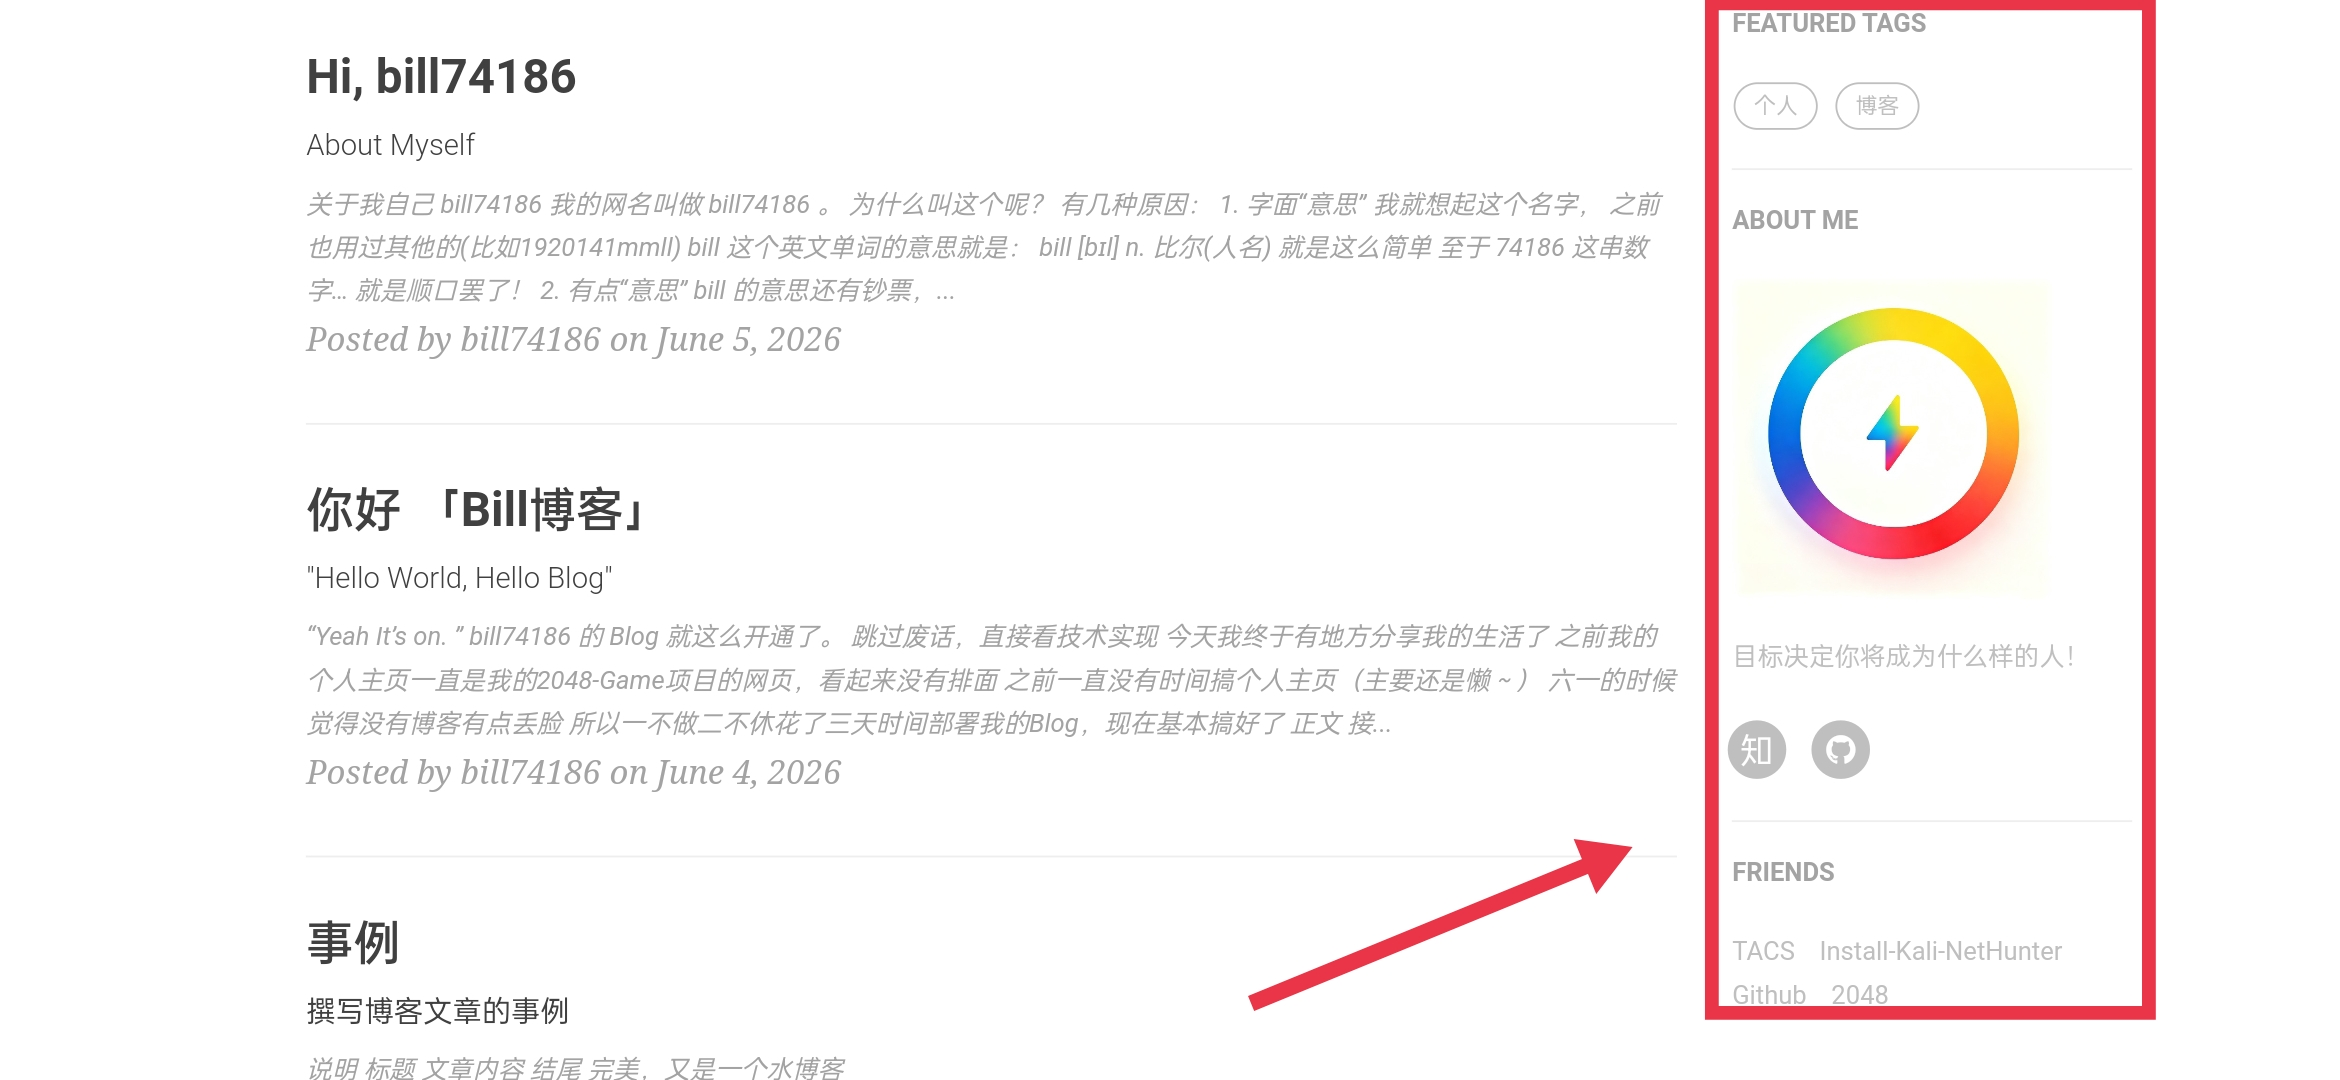
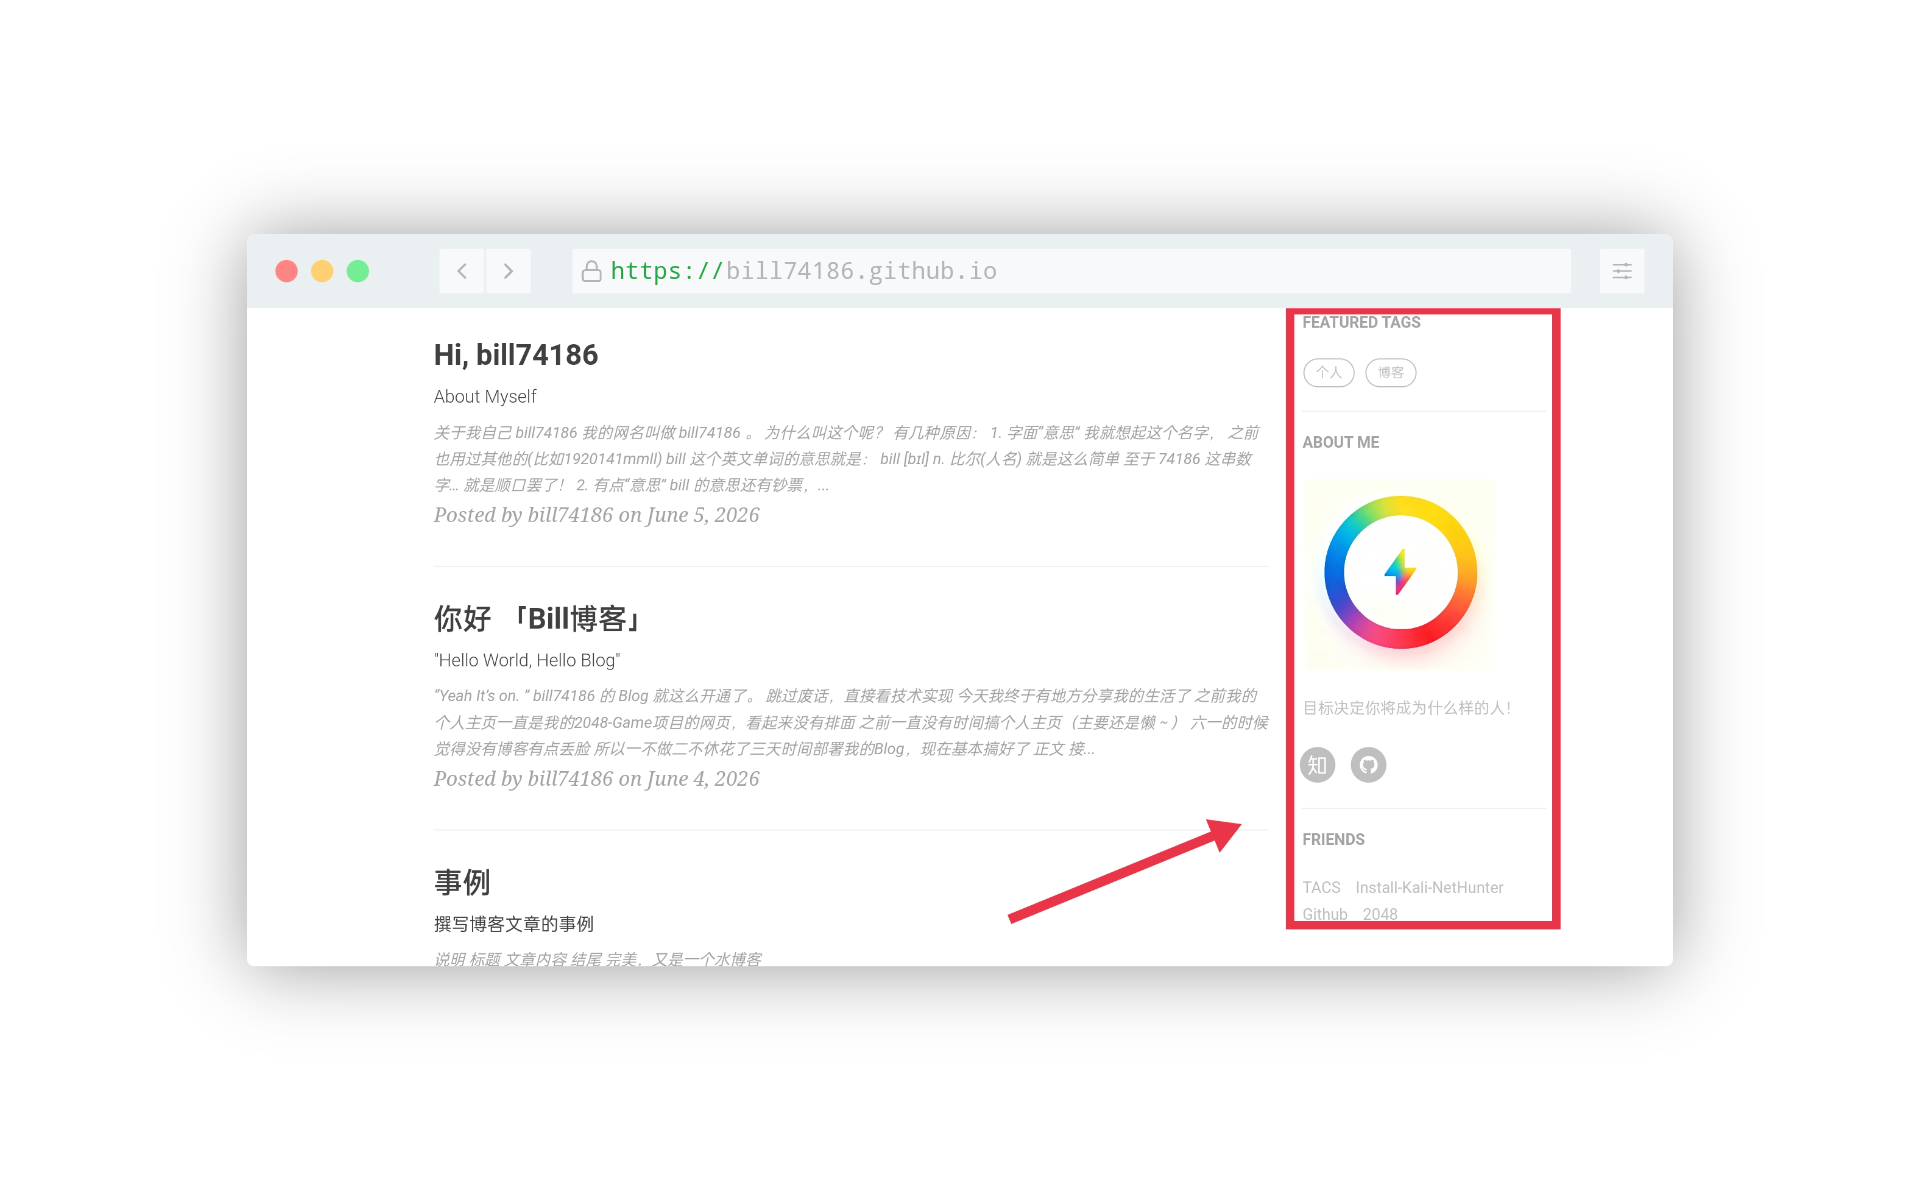
修改：修改修改代码

diff --git a/_includes/short-about.html b/_includes/short-about.html
@@ -1,6 +1,6 @@
 <section class="visible-md visible-lg">
   <hr>
-  <h5><a href="{{'/about/' | prepend: site.baseurl }}">ABOUT ME</a></h5>
+  <h5><a href="{{'ff/about/' | prepend: site.baseurl }}">ABOUT ME</a></h5>
   <div class="short-about">
     {% if site.sidebar-avatar %}
     <img src="{{site.sidebar-avatar}}" />
@@ -11,4 +11,7 @@
     <!-- SNS Link -->
     {% include sns-links.html %}
   </div>
+  {% if site.email %}
+    <p> {{site.email}}</p>
+ f {% endif %}
 </section>

diff --git a/_includes/nav.html b/_includes/nav.html
@@ -27,7 +27,7 @@
                             <a href="{{ site.baseurl }}/about"><i class="fa fa-user"></i> About</a>
                         </li>
                         <li>
-                            <a href="{{ site.baseurl }}/archive"><i class="fa fa-tag"></i> Archive</a>
+                            <a href="{{ site.baseurl }}/archive"><i class="fa fa-archive"></i> Archive</a>
                         </li>
                         <li class="search-icon">
                             <a href="javascript:void(0)"><i class="fa fa-search"></i> Search</a>

diff --git a/_doc/README.zhCN.md b/_doc/README.zhCN.md
@@ -3,7 +3,7 @@
 # Bill Blog
 「"一“码”之缘，有“源”再见！」
 
-![Blog Photo](https://bill74186.github.io/img/blog-title.jpg)
+![Blog Photo](../img/blog-title.png)
 
 [English](../README.md) | **简体中文** | [繁體中文](README.zhTW.md)
 
@@ -45,7 +45,7 @@
 	* [标题底图](#标题底图)
 	* [搜索展示标题-头文件](#头文件修改)
 
-
+## 开始
 
 ### 环境
 
@@ -92,6 +92,8 @@ tags:
     - 博客
 ---
 ```
+
+## 组件
 
 ### 侧边栏
 